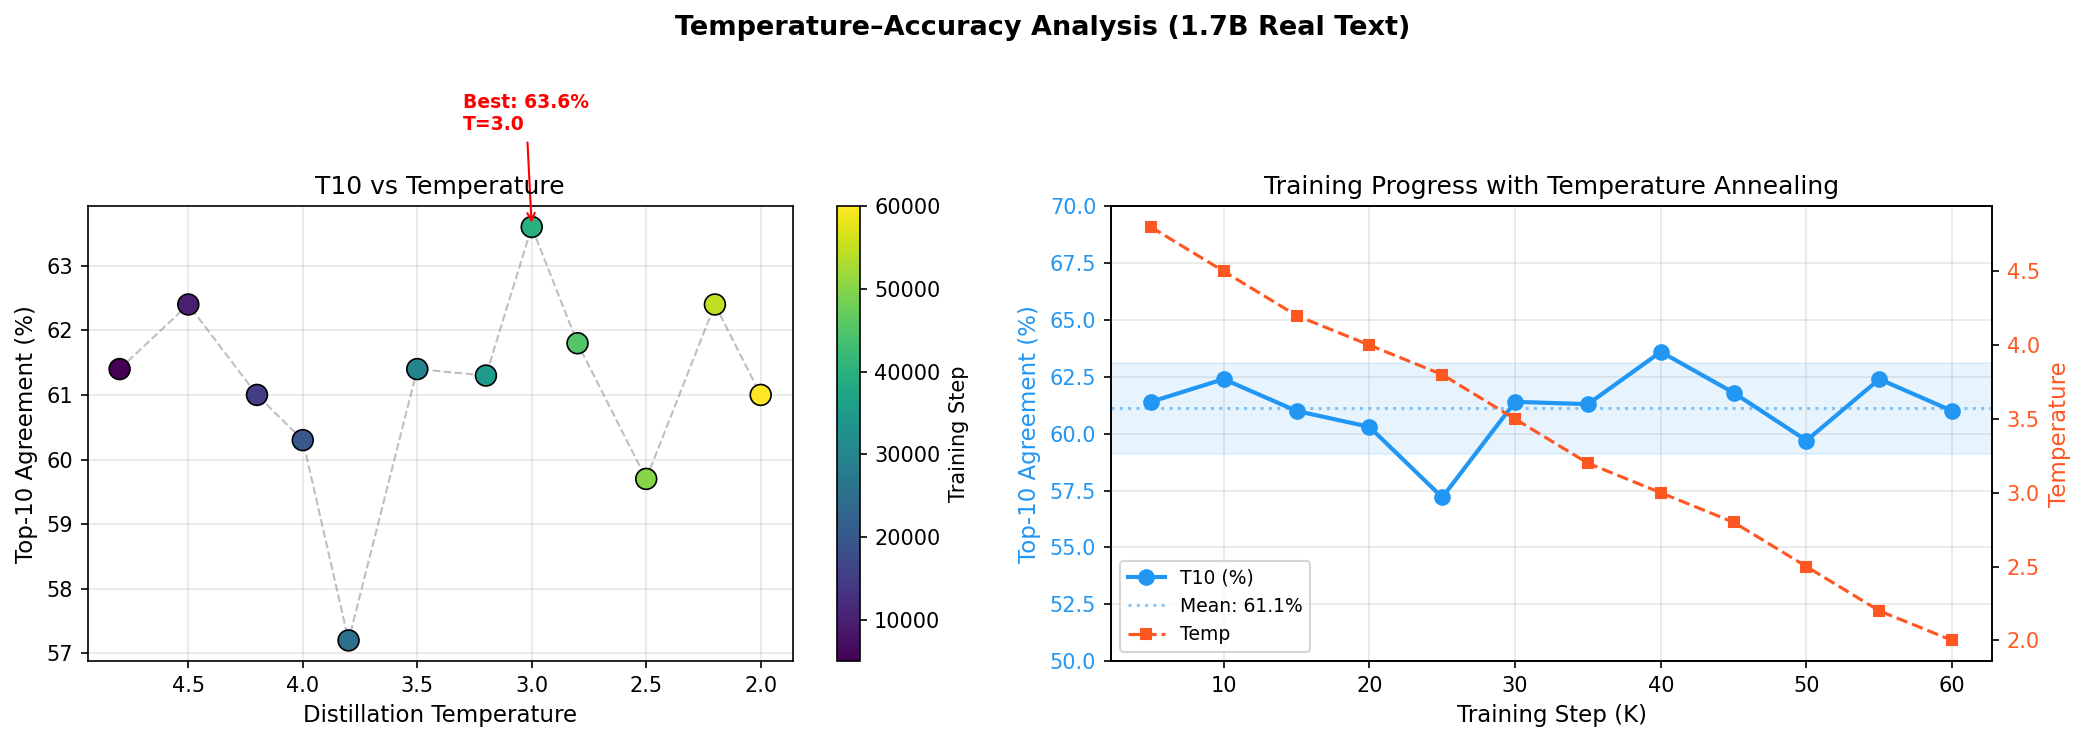
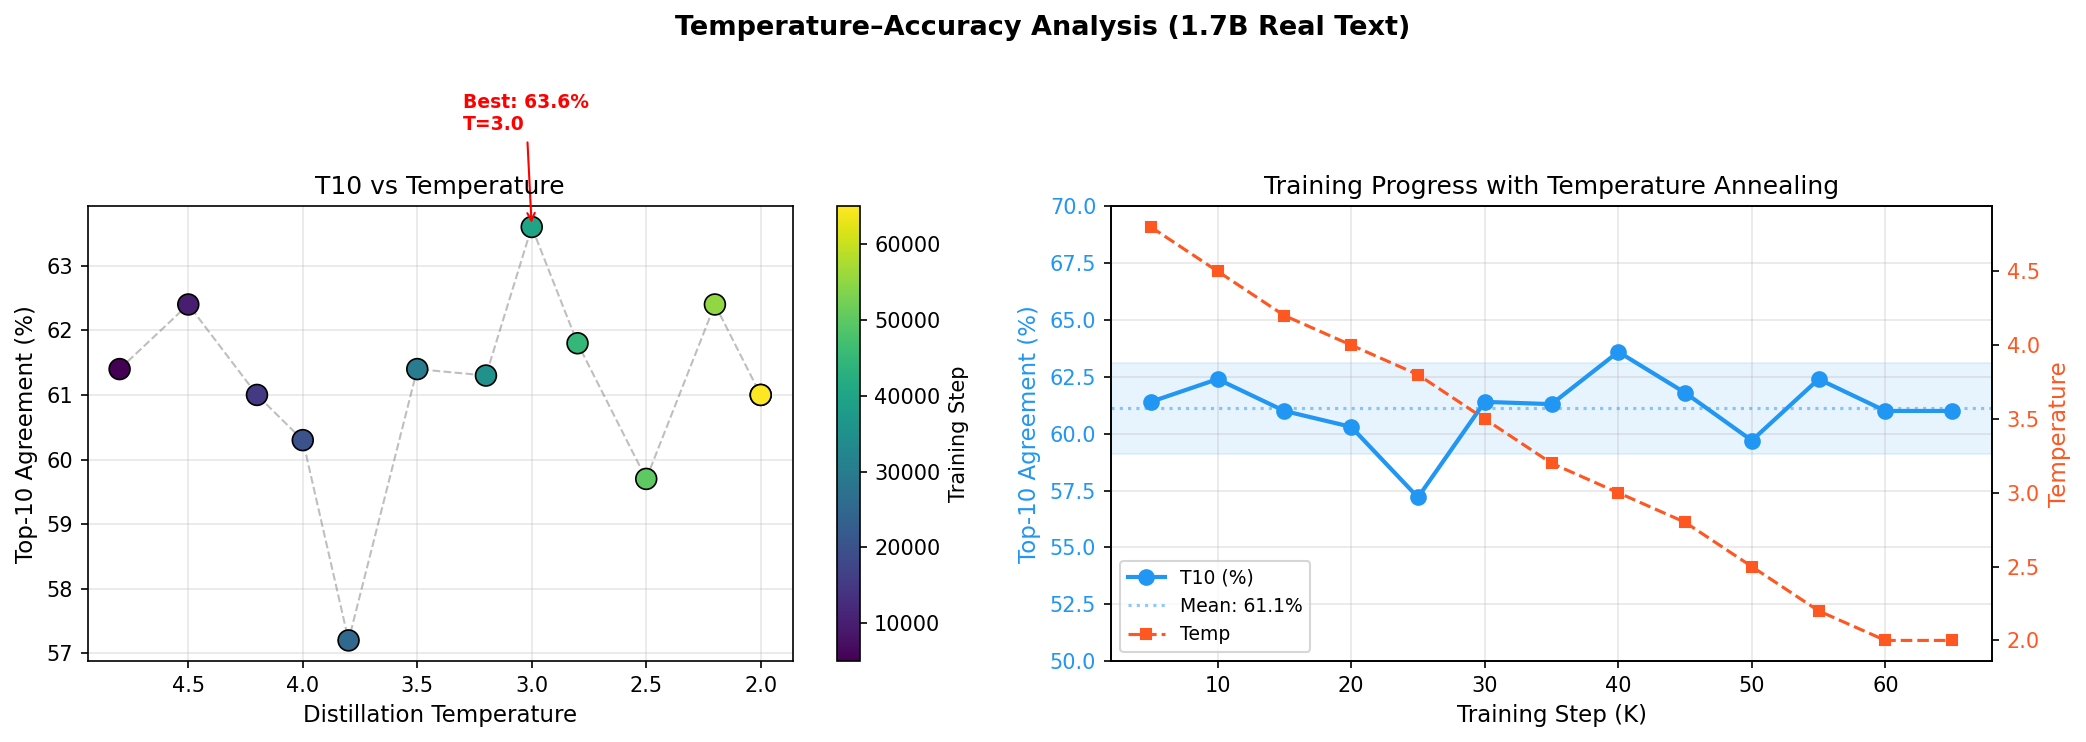
1.7B 65K data (T10 stable 61%), 8B RAM-preloaded restart (5.9x faster: 66s vs 390s)

diff --git a/analyze_training.py b/analyze_training.py
@@ -47,7 +47,7 @@ class Experiment:
 # ---------------------------------------------------------------------------
 
 def get_1_7b_real_text() -> Experiment:
-    """1.7B real text 100K training data (through 60K)."""
+    """1.7B real text 100K training data (through 65K)."""
     exp = Experiment(name="1.7B Real Text 100K", total_steps=100_000, params=29_380_636)
     data = [
         (0, 561.92, 5.0, 21.4, 5.0, 12),
@@ -63,6 +63,7 @@ def get_1_7b_real_text() -> Experiment:
         (50000, 44.41, 49.0, 59.7, 2.5, 6440),
         (55000, 47.50, 40.0, 62.4, 2.2, 7142),
         (60000, 49.74, 28.0, 61.0, 2.0, 7746),
+        (65000, 50.40, 38.0, 61.0, 2.0, 8356),
     ]
     for step, loss, t1, t10, temp, elapsed in data:
         exp.points.append(TrainingPoint(step, loss, t1, t10, temp, elapsed))
@@ -121,7 +122,7 @@ def get_8b_real_text() -> Experiment:
     """8B real text 50K training data (streaming teacher). IN PROGRESS."""
     exp = Experiment(name="8B Real Text 50K", total_steps=50_000, params=167_813_156)
     data = [
-        (0, 523.83, 2.0, 13.4, 5.0, 390),
+        (0, 535.04, 2.0, 13.0, 5.0, 66),
     ]
     for step, loss, t1, t10, temp, elapsed in data:
         exp.points.append(TrainingPoint(step, loss, t1, t10, temp, elapsed))

diff --git a/STATUS.md b/STATUS.md
@@ -146,8 +146,8 @@ This means FRR compression applies to nearly everything:
 ### CURRENTLY RUNNING
 | GPU | Experiment | Status | Latest | Notes |
 |-----|-----------|--------|--------|-------|
-| 0 | **8B Real Text 50K (streaming)** | **Step 0/50K** | T1=2.0% T10=13.4% loss=523.8 | **167.8M params (46.8x), 12.66 GB VRAM** |
-| 1 | 1.7B Real Text 100K | Step 60K/100K | T1=28% T10=61.0% | T at minimum 2.0, loss rising |
+| 0 | **8B Real Text 50K (streaming, RAM-preloaded)** | **Step 0/50K** | T1=2.0% T10=13.0% loss=535.0 | **5.9x faster: 66s vs 390s per eval step** |
+| 1 | 1.7B Real Text 100K | Step 65K/100K | T1=38% T10=61.0% | T at minimum 2.0, stable plateau |
 
 ### SELECTIVE STUDENT — Experiment 1 COMPLETE (0.6B, 15K steps)
 | Step | Loss | T1 | T10 | Elapsed |
@@ -210,6 +210,7 @@ This means FRR compression applies to nearly everything:
 | **50000** | **44.41** | **49.0%** | 59.7% | 2.5 | 6440s | **NEW BEST T1!** |
 | 55000 | 47.50 | 40.0% | 62.4% | 2.2 | 7142s | |
 | 60000 | 49.74 | 28.0% | 61.0% | 2.0 | 7746s | T at minimum |
+| 65000 | 50.40 | 38.0% | 61.0% | 2.0 | 8356s | T10 stable plateau |
 
 **50K HellaSwag + WikiText-2 Evaluation:**
 | Model | HellaSwag | WikiText-2 PPL |
@@ -232,9 +233,9 @@ This means FRR compression applies to nearly everything:
 
 | Step | Loss | T1 | T10 | Temp | Elapsed | Note |
 |------|------|-----|-----|------|---------|------|
-| 0 | 523.83 | 2.0% | 13.4% | 5.0 | 390s | First step (includes init+eval overhead) |
+| 0 | 535.04 | 2.0% | 13.0% | 5.0 | 66s | **5.9x faster with RAM preloading** (was 390s) |
 
-**Step 0 analysis:** Lower initial loss than 1.7B (523.8 vs 561.9) but lower initial T10 (13.4% vs 21.4%). 8B teacher has richer distribution — harder to match initially but more information to learn from. First step took 390s due to streaming overhead + 50-sample eval. Expect ~7-10s/step for non-eval steps.
+**Step 0 analysis:** 5.9x speedup from RAM preloading (66s vs 390s with disk streaming). Previously ~140h estimated, now ~20-30h. GPU utilization jumped from 16% to 90%. Per non-eval training step should be ~1-2s (vs ~7-10s before).
 
 ### NEW TOOLS BUILT (CPU prep while GPUs busy)
 - **eval_checkpoint.py** — Standalone checkpoint evaluator (HellaSwag + WikiText-2 + T1/T10)

diff --git a/PAPER_DRAFT.md b/PAPER_DRAFT.md
@@ -368,6 +368,7 @@ We have shown that a single transformer block, applied recursively 28 times with
 | **50K** | **44.41** | **49%** | 59.7% | 2.5 | 6440s | **New best T1** |
 | 55K | 47.50 | 40% | 62.4% | 2.2 | 7142s | T10 rebounds |
 | 60K | 49.74 | 28% | 61.0% | 2.0 | 7746s | T at minimum |
+| 65K | 50.40 | 38% | 61.0% | 2.0 | 8356s | T10 plateau |
 
 **HellaSwag at 50K: FRR 28.0% vs Teacher 31.3% = 89.4% retention. WikiText-2 PPL: FRR 1322.2 vs Teacher 670.7.**
 
